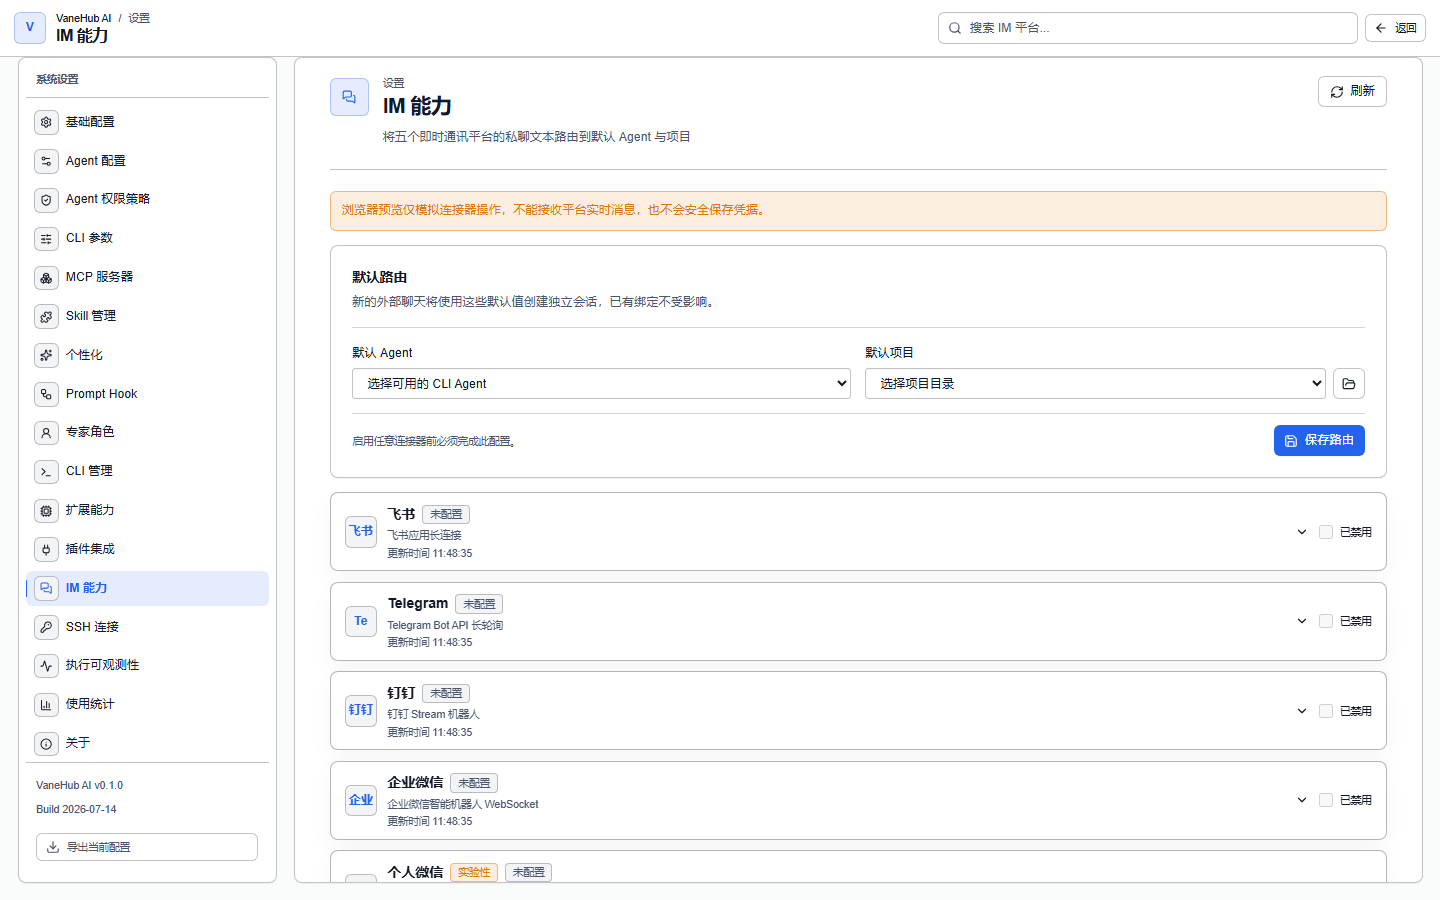
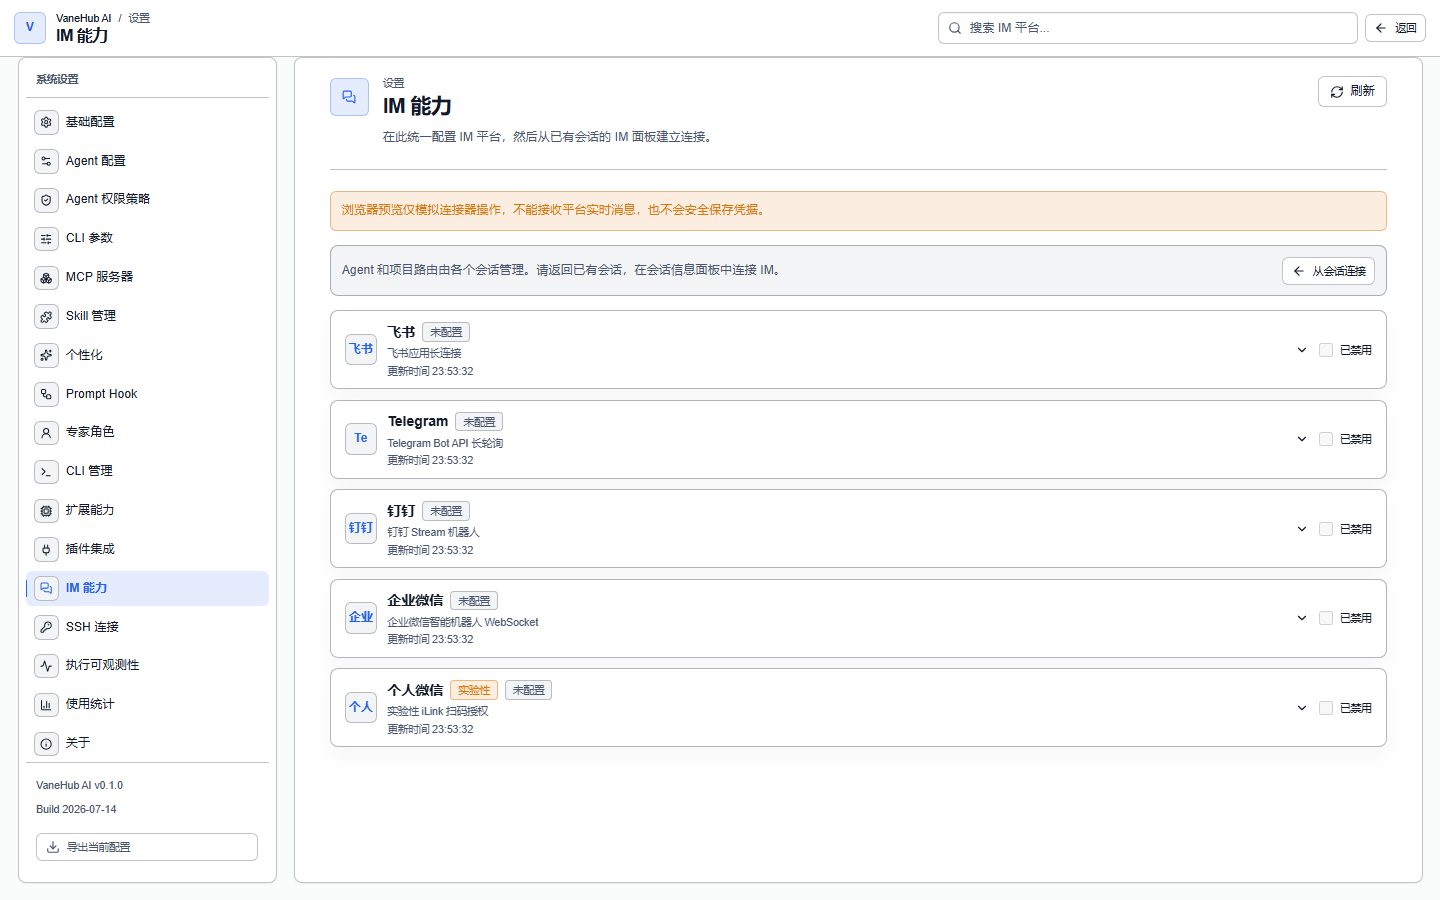
docs: refresh IM capability screenshots

diff --git a/tests/docs/documentation-screenshots.spec.ts b/tests/docs/documentation-screenshots.spec.ts
@@ -229,13 +229,8 @@ const scenarios: Record<string, (page: Page, locale: Locale) => Promise<Locator>
   "settings-observability": (page, locale) =>
     openSettings(page, "observability", text(locale, "执行可观测性", "Execution observability")),
 
-  /**
-   * A connector reaching "connected" in Web/mock. The mock refuses to enable one
-   * before default routing is saved, which is the same prerequisite the desktop
-   * runtime enforces — so the capture also documents that ordering.
-   */
+  /** A globally configured connector reaching "connected" before session binding. */
   "im-connected": async (page, locale) => {
-    // Creating a session first is what puts a project into the routing dropdown.
     await createSession(page, locale);
     await page.getByRole("button", { name: text(locale, "设置", "Settings") }).click();
     const shell = page.locator("main").first();
@@ -245,14 +240,6 @@ const scenarios: Record<string, (page: Page, locale: Locale) => Promise<Locator>
     // Every settings page stays mounted and only the active one is visible, so every
     // control here must be filtered to what is actually on screen.
     const visible = { visible: true } as const;
-    const selects = shell.locator("select").filter(visible);
-    await selects.nth(0).selectOption({ index: 1 });
-    await selects.nth(1).selectOption({ index: 1 });
-    await shell
-      .getByRole("button", { name: text(locale, "保存路由", "Save routing") })
-      .filter(visible)
-      .click();
-
     await shell.getByRole("button", { name: /飞书/ }).filter(visible).first().click();
     const credentials = shell
       .locator('input[type="text"], input[type="password"]')
